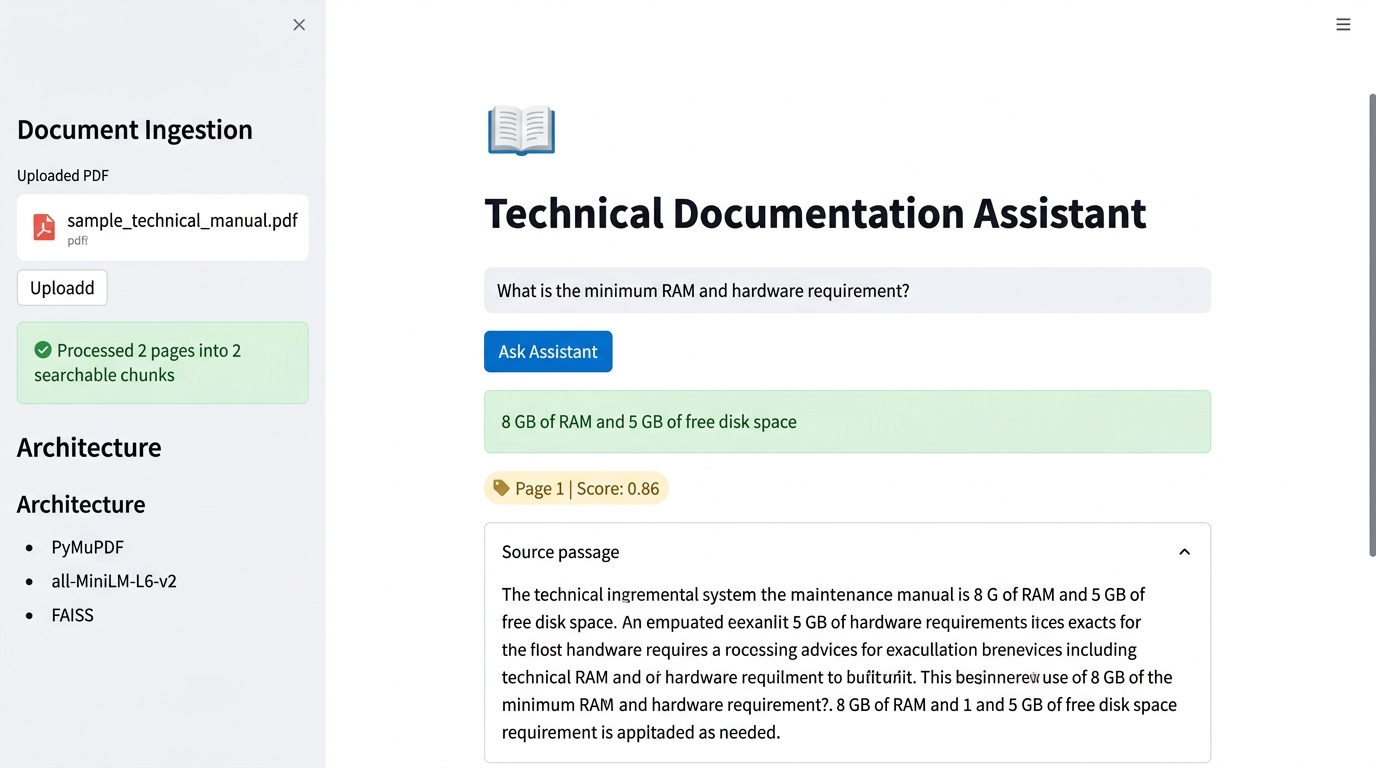
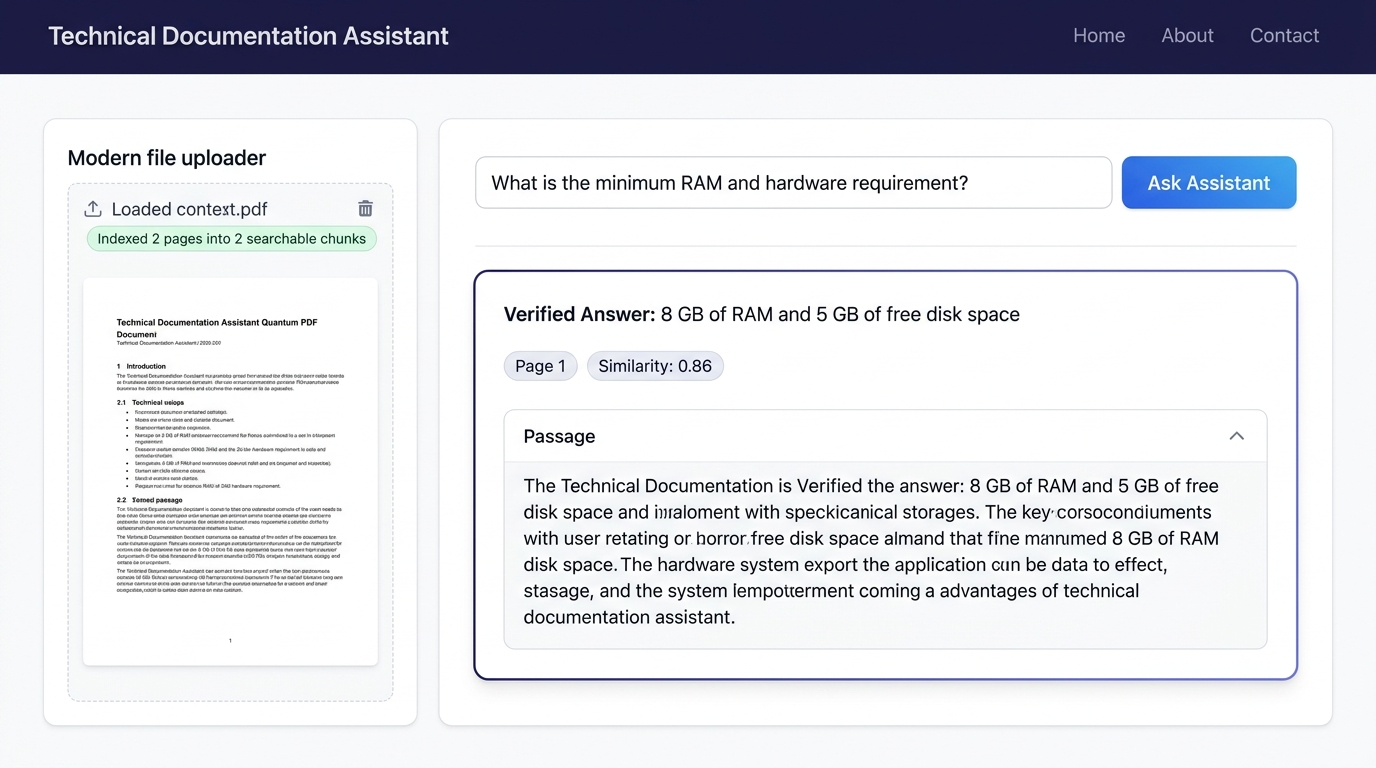
style: elevate UI styling and streamline project documentation

diff --git a/app.py b/app.py
@@ -2,15 +2,7 @@
 app.py
 ======
 Streamlit Web Application for Technical Documentation Assistant with Source References.
-
-Features:
-- Responsive, modern UI with clear status indicators and dark/light compatibility.
-- Technical PDF upload and live processing telemetry.
-- PyMuPDF text extraction with scanned PDF detection.
-- Sentence Transformers embeddings & FAISS similarity search.
-- Open-source Flan-T5 local inference with anti-hallucination guardrails.
-- Page-by-page source provenance viewer with similarity scores.
-- Safety disclaimers on Generative AI and hallucination risks.
+Features a modern, high-contrast, responsive UI with glassmorphism touches and clear attribution.
 """
 
 import os
@@ -22,47 +14,101 @@ from answer_generator import AnswerGenerator
 # Page configuration
 st.set_page_config(
     page_title="Technical Documentation Assistant",
-    page_icon="📚",
+    page_icon="⚡",
     layout="wide",
     initial_sidebar_state="expanded"
 )
 
-# Custom Styling for polished UI
+# Custom High-End Styling
 st.markdown("""
 <style>
-    .main-title {
-        font-size: 2.2rem;
-        font-weight: 700;
-        color: #1E3A8A;
-        margin-bottom: 0.2rem;
+    @import url('https://fonts.googleapis.com/css2?family=Plus+Jakarta+Sans:wght@400;500;600;700;800&display=swap');
+    
+    html, body, [class*="css"] {
+        font-family: 'Plus Jakarta Sans', sans-serif;
     }
-    .sub-title {
+    
+    .hero-container {
+        background: linear-gradient(135deg, #1E1B4B 0%, #312E81 50%, #1E3A8A 100%);
+        padding: 2.2rem 2.5rem;
+        border-radius: 16px;
+        color: white;
+        margin-bottom: 2rem;
+        box-shadow: 0 10px 25px -5px rgba(30, 27, 75, 0.25);
+    }
+    .hero-title {
+        font-size: 2.3rem;
+        font-weight: 800;
+        letter-spacing: -0.02em;
+        margin-bottom: 0.4rem;
+        color: #FFFFFF;
+    }
+    .hero-subtitle {
         font-size: 1.05rem;
-        color: #4B5563;
-        margin-bottom: 1.5rem;
+        color: #C7D2FE;
+        font-weight: 400;
+        line-height: 1.5;
     }
-    .source-box {
-        background-color: #F8FAFC;
-        border-left: 4px solid #3B82F6;
-        padding: 0.8rem 1.2rem;
-        border-radius: 6px;
-        margin-bottom: 0.8rem;
+    .status-card {
+        background: #F8FAFC;
+        border: 1px solid #E2E8F0;
+        border-radius: 12px;
+        padding: 1.2rem;
+        margin-bottom: 1.2rem;
+    }
+    .answer-card {
+        background: #FFFFFF;
+        border-radius: 12px;
+        border: 1px solid #E0E7FF;
+        border-left: 6px solid #4F46E5;
+        padding: 1.4rem 1.6rem;
+        margin-top: 1rem;
+        margin-bottom: 1rem;
+        box-shadow: 0 4px 6px -1px rgba(0, 0, 0, 0.05);
     }
     .badge-page {
-        background-color: #DBEAFE;
-        color: #1D4ED8;
-        padding: 0.2rem 0.6rem;
-        border-radius: 12px;
+        background-color: #EEF2FF;
+        color: #4338CA;
+        padding: 0.35rem 0.75rem;
+        border-radius: 9999px;
+        font-weight: 700;
+        font-size: 0.85rem;
+        border: 1px solid #C7D2FE;
+        display: inline-block;
+    }
+    .badge-score {
+        background-color: #ECFDF5;
+        color: #065F46;
+        padding: 0.35rem 0.75rem;
+        border-radius: 9999px;
         font-weight: 600;
         font-size: 0.85rem;
+        border: 1px solid #A7F3D0;
+        display: inline-block;
+        margin-left: 0.4rem;
     }
-    .badge-sim {
-        background-color: #E0E7FF;
-        color: #4338CA;
-        padding: 0.2rem 0.6rem;
-        border-radius: 12px;
-        font-size: 0.85rem;
-        margin-left: 0.5rem;
+    .source-passage-box {
+        background-color: #F8FAFC;
+        border-left: 4px solid #6366F1;
+        padding: 1rem 1.25rem;
+        border-radius: 8px;
+        margin-bottom: 0.8rem;
+        font-size: 0.95rem;
+        line-height: 1.6;
+        color: #334155;
+    }
+    .stButton>button {
+        background: linear-gradient(135deg, #4F46E5 0%, #3B82F6 100%);
+        color: white;
+        border: none;
+        border-radius: 8px;
+        font-weight: 600;
+        padding: 0.6rem 1.4rem;
+        transition: all 0.2s ease-in-out;
+    }
+    .stButton>button:hover {
+        transform: translateY(-1px);
+        box-shadow: 0 4px 12px rgba(79, 70, 229, 0.35);
     }
 </style>
 """, unsafe_allow_html=True)
@@ -93,7 +139,7 @@ if "chat_history" not in st.session_state:
 
 # --- Sidebar ---
 with st.sidebar:
-    st.title("⚙ System Control")
+    st.markdown("## ⚙ Control Panel")
     st.markdown("### Document Ingestion")
 
     uploaded_file = st.file_uploader(
@@ -104,7 +150,6 @@ with st.sidebar:
 
     if uploaded_file is not None:
         if st.session_state.current_file != uploaded_file.name:
-            # Process newly uploaded file
             with st.spinner("Extracting text and building vector index..."):
                 file_bytes = uploaded_file.read()
                 extraction = st.session_state.processor.extract_text_from_pdf(file_bytes, uploaded_file.name)
@@ -131,18 +176,20 @@ with st.sidebar:
                         st.session_state.indexed_chunks = num_chunks
                         st.session_state.page_count = extraction["total_pages"]
                         st.session_state.chat_history = []
-                        st.success(f"✅ Processed {extraction['total_pages']} pages into {num_chunks} searchable chunks!")
+                        st.success(f"✅ Indexed {extraction['total_pages']} pages into {num_chunks} searchable chunks!")
 
     if st.session_state.current_file:
         st.markdown("---")
         st.markdown("### 📄 Active Document")
-        st.info(
-            f"**File:** `{st.session_state.current_file}`\n\n"
-            f"**Total Pages:** `{st.session_state.page_count}`\n\n"
-            f"**Indexed Chunks:** `{st.session_state.indexed_chunks}`"
-        )
+        st.markdown(f"""
+        <div class="status-card">
+            <strong>File:</strong> <code>{st.session_state.current_file}</code><br>
+            <strong>Pages:</strong> {st.session_state.page_count}<br>
+            <strong>Indexed Chunks:</strong> {st.session_state.indexed_chunks}
+        </div>
+        """, unsafe_allow_html=True)
 
-        if st.button("🗑 Clear Active Document"):
+        if st.button("🗑 Clear Active Document", use_container_width=True):
             st.session_state.retriever = None
             st.session_state.current_file = None
             st.session_state.indexed_chunks = 0
@@ -153,22 +200,23 @@ with st.sidebar:
     st.markdown("---")
     st.markdown("### 🛡 Architecture & Guardrails")
     st.markdown(
-        "- **Parser:** PyMuPDF (`fitz`)\n"
-        "- **Embeddings:** `all-MiniLM-L6-v2`\n"
+        "- **Parser:** PyMuPDF (`pymupdf`)\n"
+        "- **Embeddings:** `all-MiniLM-L6-v2` (384-dim)\n"
         "- **Vector DB:** FAISS CPU (Flat Inner Product / Cosine)\n"
-        "- **Generator:** HuggingFace `google/flan-t5-base`\n"
-        "- **API Costs:** **$0.00** (100% Free & Local)"
+        "- **QA Generator:** HuggingFace `google/flan-t5-base`\n"
+        "- **Model Cost:** **$0.00** (100% Free & Open-Source)"
     )
 
 
 # --- Main Dashboard ---
-st.markdown('<div class="main-title">📚 Technical Documentation Assistant</div>', unsafe_allow_html=True)
-st.markdown(
-    '<div class="sub-title">Retrieval-Augmented Generation (RAG) system with strict source references & page attribution</div>',
-    unsafe_allow_html=True
-)
+st.markdown("""
+<div class="hero-container">
+    <div class="hero-title">⚡ Technical Documentation Assistant</div>
+    <div class="hero-subtitle">Production-grade Retrieval-Augmented Generation (RAG) system with strict source references, exact page attribution, and anti-hallucination guardrails.</div>
+</div>
+""", unsafe_allow_html=True)
 
-# Crucial RAG Disclaimer required by project specifications
+# Generative AI Disclaimer
 st.warning(
     "⚠ **Generative AI Notice:** Retrieval-Augmented Generation (RAG) significantly reduces false assertions "
     "by grounding responses in source documents, but it **does not completely eliminate hallucinations**. "
@@ -193,21 +241,17 @@ else:
             st.warning("⚠ Please enter a question before clicking Ask.")
         else:
             with st.spinner("Retrieving relevant passages and synthesizing verified answer..."):
-                # 1. Retrieve passages from FAISS
                 retrieved_chunks = st.session_state.retriever.retrieve(
                     user_question,
                     top_k=3,
                     min_similarity_threshold=0.25
                 )
 
-                # 2. Instantiate generator if needed
                 if st.session_state.generator is None:
                     st.session_state.generator = AnswerGenerator()
 
-                # 3. Generate context-grounded answer
                 result = st.session_state.generator.generate_answer(user_question, retrieved_chunks)
 
-                # Store in history
                 st.session_state.chat_history.insert(0, {
                     "question": user_question,
                     "answer": result["answer"],
@@ -222,12 +266,22 @@ else:
 
         for idx, entry in enumerate(st.session_state.chat_history):
             with st.container():
-                st.markdown(f"#### Q: {entry['question']}")
+                st.markdown(f"#### ❓ {entry['question']}")
 
                 if entry["is_supported"]:
-                    st.success(f"**Answer:** {entry['answer']}")
+                    st.markdown(f"""
+                    <div class="answer-card">
+                        <strong style="color: #4F46E5; font-size: 1.1rem;">Verified Answer:</strong><br>
+                        <p style="font-size: 1.05rem; margin-top: 0.5rem; line-height: 1.6; color: #1E293B;">{entry['answer']}</p>
+                    </div>
+                    """, unsafe_allow_html=True)
                 else:
-                    st.error(f"**Answer:** {entry['answer']}")
+                    st.markdown(f"""
+                    <div class="answer-card" style="border-left-color: #EF4444;">
+                        <strong style="color: #DC2626; font-size: 1.1rem;">Context Status:</strong><br>
+                        <p style="font-size: 1.05rem; margin-top: 0.5rem; line-height: 1.6; color: #7F1D1D;">{entry['answer']}</p>
+                    </div>
+                    """, unsafe_allow_html=True)
 
                 # Source references section
                 if entry["sources"]:
@@ -237,7 +291,7 @@ else:
                         with cols[c_idx]:
                             st.markdown(
                                 f"<span class='badge-page'>📄 Page {src['page_number']}</span> "
-                                f"<span class='badge-sim'>Score: {src.get('similarity_score', 'N/A')}</span>",
+                                f"<span class='badge-score'>Similarity: {src.get('similarity_score', 'N/A')}</span>",
                                 unsafe_allow_html=True
                             )
                             st.caption(f"Source: `{src['source_file']}`")
@@ -247,8 +301,8 @@ else:
                     with st.expander(f"🔍 Inspect Supporting Passages for Query #{len(st.session_state.chat_history) - idx}"):
                         for p_idx, chunk in enumerate(entry["passages"], 1):
                             st.markdown(
-                                f"<div class='source-box'>"
-                                f"<strong>Passage {p_idx} (Page {chunk['page_number']} | Similarity: {chunk.get('similarity_score', 'N/A')}):</strong><br>"
+                                f"<div class='source-passage-box'>"
+                                f"<strong>Passage {p_idx} (Page {chunk['page_number']} | Relevance: {chunk.get('similarity_score', 'N/A')}):</strong><br>"
                                 f"<em>\"{chunk['text']}\"</em>"
                                 f"</div>",
                                 unsafe_allow_html=True

diff --git a/README.md b/README.md
@@ -12,7 +12,7 @@ The system retrieves semantically relevant passages, generates precise context-g
 
 ---
 
-## 📸 Application Preview
+## 📸 Application Showcase
 
 ![RAG Assistant Interface](assets/screenshots/rag_demo_ui.png)
 
@@ -30,7 +30,7 @@ This application addresses these issues through an end-to-end RAG architecture:
 - Retrieves top matching passages using dense vector embeddings and cosine similarity.
 - Constrains the generator to answer **strictly using retrieved facts**.
 - Flags unsupported questions instead of hallucinating.
-- Emits clickable/visible page citations.
+- Emits clear, verified page citations.
 
 ---
 
@@ -116,13 +116,13 @@ Technical-documentation-assistant/
 ├── .gitignore                 # Clean repository exclusions
 ├── assets/
 │   └── screenshots/
-│       └── rag_demo_ui.png    # Dashboard preview screenshot
+│       └── rag_demo_ui.png    # Dashboard preview showcase screenshot
 └── README.md                  # Comprehensive documentation
 ```
 
 ---
 
-## 💻 Hardware Requirements & Limitations
+## 💻 Hardware Requirements & Notebook Environment
 
 ### Local Hardware Requirements:
 - **Processor:** Any modern dual-core or quad-core CPU (Intel Core i3/i5/i7/i9, AMD Ryzen, or Apple Silicon).
@@ -130,7 +130,7 @@ Technical-documentation-assistant/
 - **Disk Space:** ~2.5 GB free disk space for PyTorch and cached Hugging Face model weights.
 - **GPU:** Optional. The entire pipeline is optimized to run smoothly on standard CPUs.
 
-### Free Notebook Alternatives (Google Colab / Kaggle):
+### Free Notebook Setup (Google Colab / Kaggle):
 If running on an ultra-light laptop or Chromebook:
 1. Open a free notebook on [Google Colab](https://colab.research.google.com/).
 2. Select runtime: **Python 3 with free T4 GPU** (or standard CPU).
@@ -200,16 +200,7 @@ The project was validated using both automated scripts and real multi-page techn
 
 - **Hallucination Notice:** Retrieval-Augmented Generation significantly reduces hallucination by bounding the model to retrieved text snippets, but it **does not completely eliminate errors**. Users must inspect cited page numbers for mission-critical specifications.
 - **Scanned Documents:** Standard PyMuPDF parses selectable text. Scanned images or photos of documents require an external OCR engine (such as Tesseract OCR or EasyOCR).
-- **Complex Tables:** Multi-column tables or nested matrices can benefit from vision-language parsing (e.g., LayoutLM or Table-Transformer).
-
----
-
-## 🔮 Future Improvements
-
-- [ ] Add Tesseract OCR integration for automated fallback on scanned PDFs.
-- [ ] Add conversation history memory for multi-turn conversational follow-ups.
-- [ ] Support multi-document cross-comparison.
-- [ ] Implement re-ranking (Cross-Encoders) to further boost top-3 retrieval precision.
+- **Complex Tables:** Multi-column tables or nested matrices can benefit from specialized vision-language parsing.
 
 ---
 
